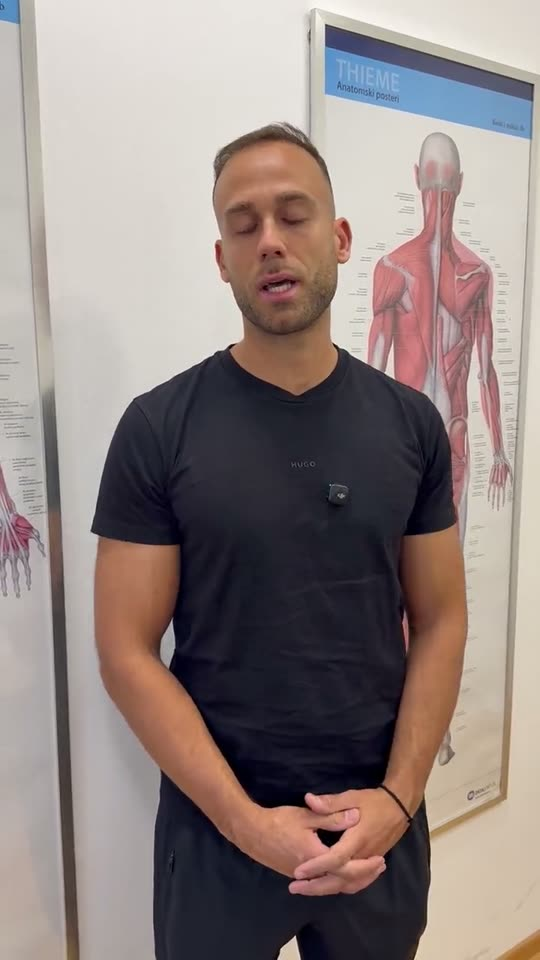
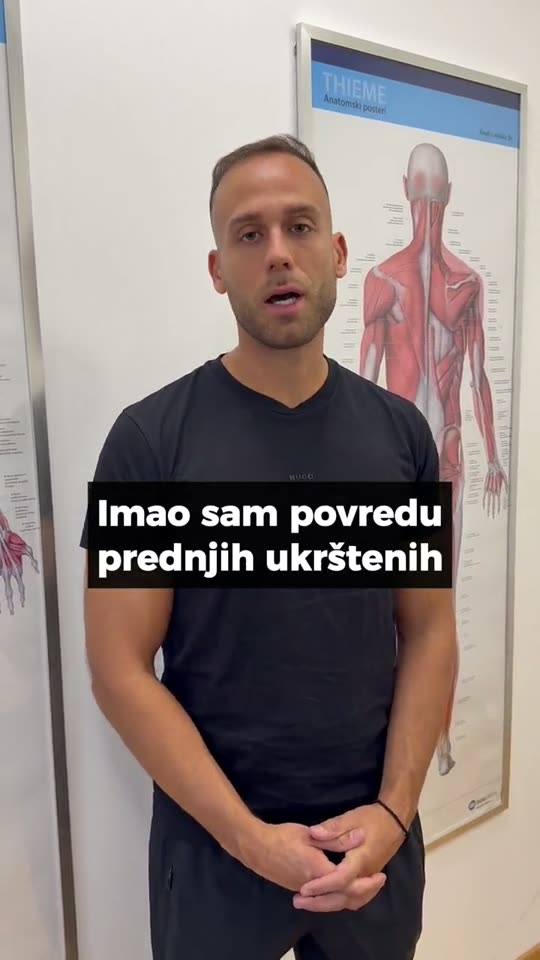
v16: Lukin poster - otvorene oci
Poster je bio sa 10. sekunde, biran zato sto je jedini bio bez titla, ali on
tamo gleda nadole i deluje kao da zmuri.

Pregledano dvadeset slicica od 4. do 23. sekunde, pa tri izbliza (5, 13 i 21 s)
sa nacrtanim dugmetom preko slike da se vidi i odnos prema titlu. Na 9 s opet
zmirka. Uzeta 5. sekunda: gleda pravo u kameru, oci otvorene.

Titl kod njega stoji vise u kadru nego kod ostalih, pa dugme sedne tik iznad
prvog reda, isto kao kod Nadje. Provereno da se ne preklapa.

Changed region(s): [[0.0, 0.0, 1.0, 1.0], [0.9185, 0.9688, 1.0, 1.0], [0.2963, 0.375, 0.3852, 0.4062]]

diff --git a/v16/README.md b/v16/README.md
@@ -5505,3 +5505,16 @@ valja. Sada na tamnoj podlozi ide **belim slovima**, uz tanku podlogu i liniju
 da se i dalje vidi da tekst nije potvrđen.
 
 `usluga.css?v=` dignut na **19.35**.
+
+### Lukin poster — oči
+
+Mladen: *„Da li bi Lukin poster mogao da bude da ne žmuri?"* Tačno — poster je
+bio sa **10. sekunde**, biran zato što je jedini bio bez titla, ali on tamo
+gleda nadole i deluje kao da žmuri.
+
+Pregledano dvadeset sličica od 4. do 23. sekunde, pa tri izbliza (5, 13 i 21 s)
+sa **nacrtanim dugmetom preko slike**, da se vidi i odnos prema titlu. Na 9 s
+opet žmirka. Uzeta **5. sekunda**: gleda pravo u kameru, oči otvorene.
+
+Titl kod njega stoji više u kadru nego kod ostalih, pa dugme sedne tik iznad
+prvog reda — isto kao kod Nađe. Provereno da se ne preklapa.
